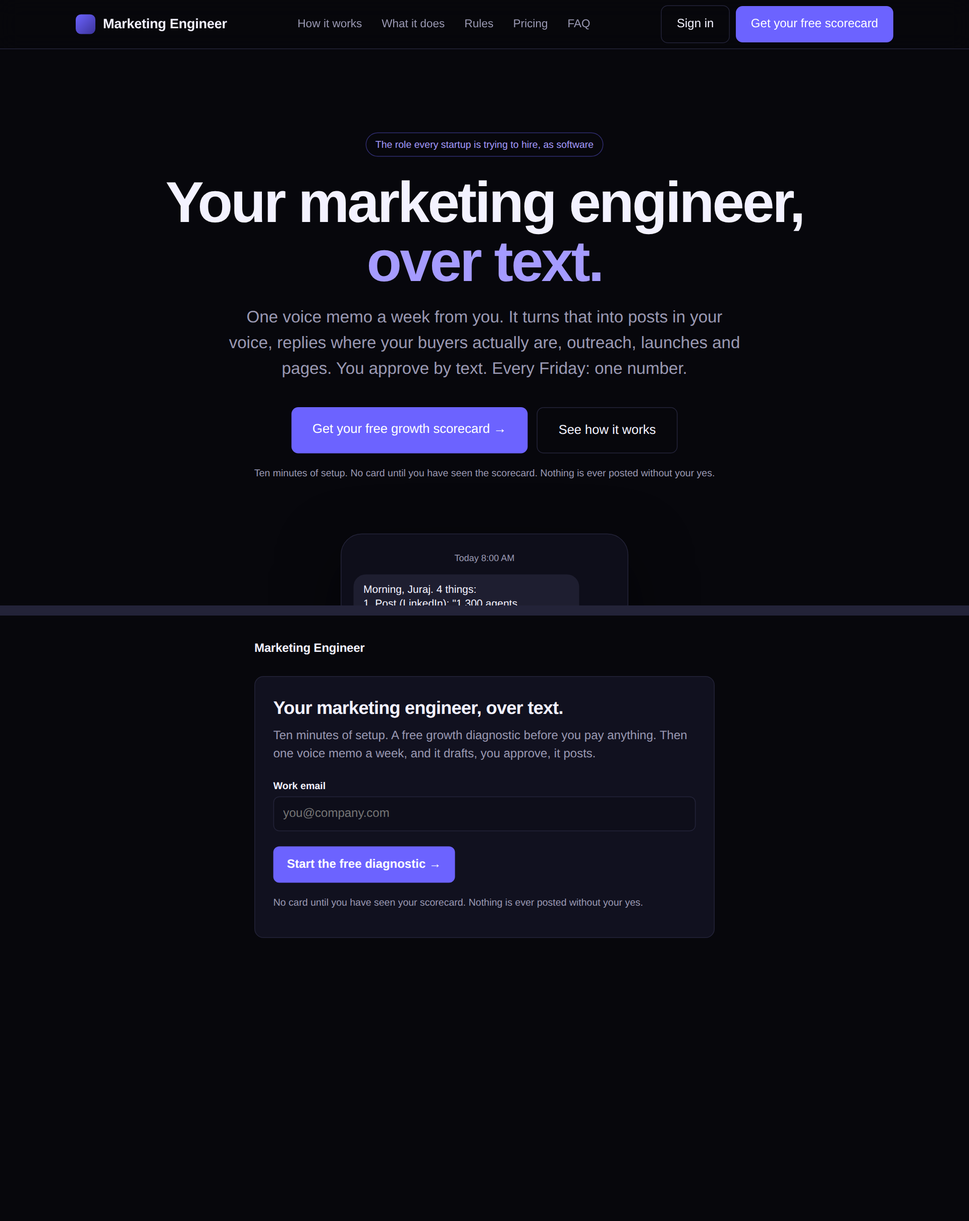
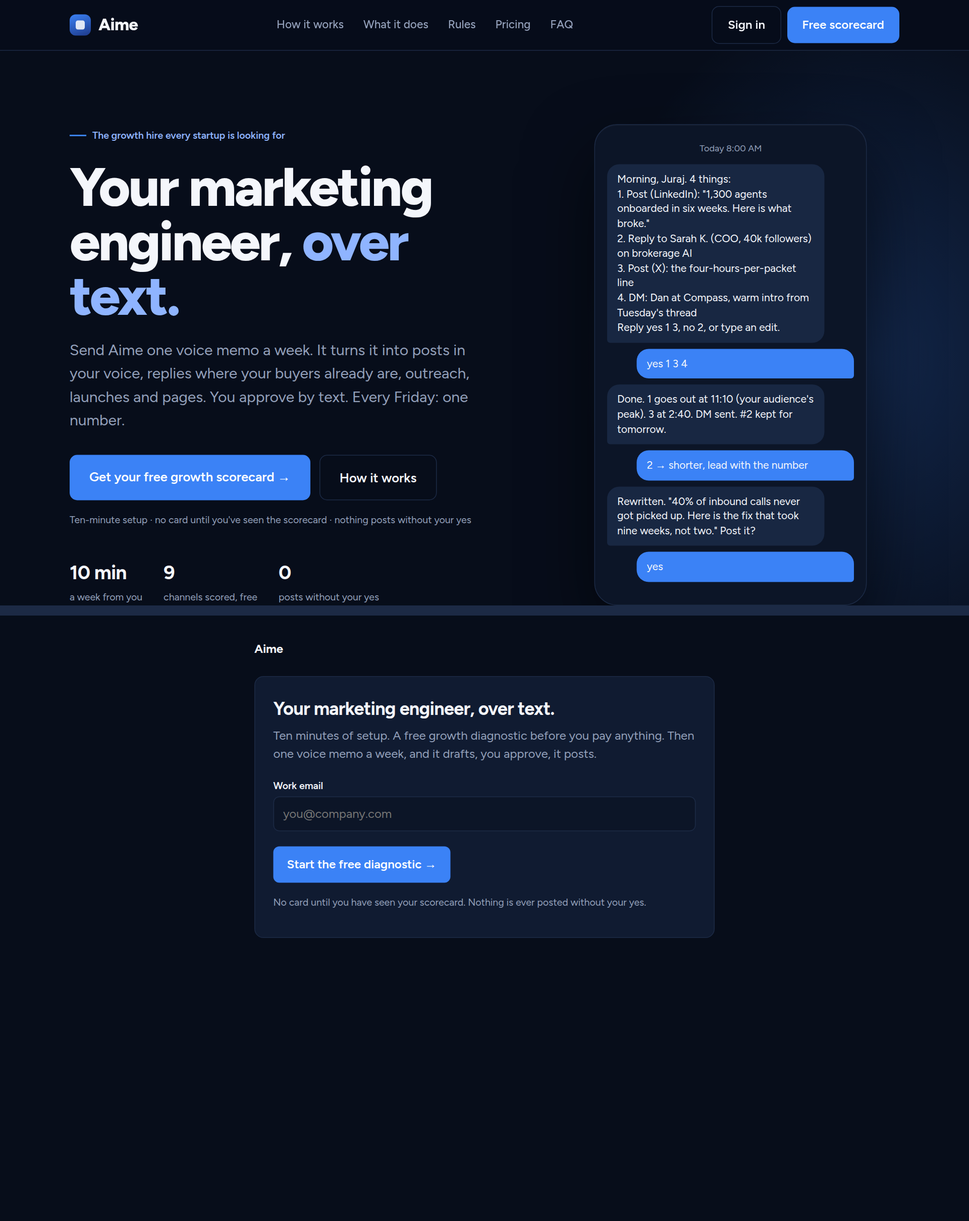
Brand: Aime, navy palette, Figtree via the coollabs fonts mirror; two-column hero
Claude-Session: https://claude.ai/code/session_015jMNLhoctozzBeGFpfg5EC

diff --git a/api/app/onboarding/site.py b/api/app/onboarding/site.py
@@ -1,72 +1,103 @@
-"""The public marketing site, served at / (Component 14b). One page, no build step, dark.
-Every button leads to /start. The copy is the tweet, rewritten for the buyer."""
+"""The public marketing site, served at / (Component 14b). One page, no build step.
+Brand tokens (name, font, palette) come from settings so they change without a deploy of code.
+The font is fetched from api.fonts.coollabs.io, a privacy-friendly Google Fonts mirror."""
+from html import escape as e
+from urllib.parse import quote
+
 from ..interfaces.billing_oauth import PLANS
+from ..settings import settings
+
+# Navy palette: deep navy ground, electric-blue accent, warm off-white type.
+BRAND_CSS = """
+:root{--font:%(font)s,-apple-system,"Segoe UI",sans-serif;--bg:#070d1a;--bg2:#0c1527;--card:#101b31;--line:#1c2a45;
+--ink:#f4f6fb;--mute:#93a0ba;--acc:#3b82f6;--acc2:#8fb4ff;--navy:#1e3a8a;--ok:#34d399;--warn:#fbbf24}
+""" % {"font": '"%s"' % settings.site_font}
+
+
+def font_link() -> str:
+    fam = quote(settings.site_font) + ":wght@" + settings.site_font_weights
+    return (f'<link rel="preconnect" href="{settings.font_css_base.split("/css2")[0]}">'
+            f'<link rel="stylesheet" href="{settings.font_css_base}?family={fam}&display=swap">')
+
 
 CSS = """
-:root{--bg:#07070c;--bg2:#0e0e1a;--ink:#f3f2ff;--mute:#9a99b3;--line:#232338;--acc:#6c63ff;--acc2:#a59bff;--ok:#34d399;--card:#11111f}
-*{box-sizing:border-box}html{scroll-behavior:smooth}body{margin:0;background:var(--bg);color:var(--ink);font:16px/1.55 Inter,-apple-system,Segoe UI,sans-serif;-webkit-font-smoothing:antialiased}
+*{box-sizing:border-box}html{scroll-behavior:smooth}body{margin:0;background:var(--bg);color:var(--ink);font:16px/1.55 var(--font);-webkit-font-smoothing:antialiased}
 a{color:inherit;text-decoration:none}
-.wrap{max-width:1120px;margin:0 auto;padding:0 20px}
-nav{position:sticky;top:0;z-index:5;backdrop-filter:blur(14px);background:rgba(7,7,12,.7);border-bottom:1px solid var(--line)}
-nav .wrap{display:flex;align-items:center;justify-content:space-between;height:64px}
-.logo{display:flex;align-items:center;gap:10px;font-weight:700;font-size:18px;letter-spacing:-.01em}
-.logo i{width:26px;height:26px;border-radius:7px;background:linear-gradient(135deg,var(--acc),#3b3399);display:inline-block}
-nav .links{display:flex;gap:26px;color:var(--mute);font-size:15px}nav .links a:hover{color:var(--ink)}
-@media(max-width:760px){nav .links{display:none}}
-.btn{display:inline-block;background:var(--acc);color:#fff;padding:12px 20px;border-radius:9px;font-weight:600;border:0;font:inherit;cursor:pointer}
-.btn:hover{background:#7d75ff}.btn.ghost{background:transparent;border:1px solid var(--line);color:var(--ink)}.btn.big{padding:16px 28px;font-size:17px}
-.hero{padding:110px 0 70px;text-align:center;position:relative;overflow:hidden}
-.hero:before{content:"";position:absolute;inset:auto 0 0 0;height:520px;background:radial-gradient(60% 70% at 50% 100%,rgba(108,99,255,.35),transparent 70%);pointer-events:none}
-.hero .wrap{position:relative}
-.eyebrow{display:inline-block;font-size:13px;color:var(--acc2);border:1px solid rgba(108,99,255,.4);border-radius:999px;padding:5px 12px;margin-bottom:22px}
-h1{font-size:clamp(40px,7vw,76px);line-height:1.02;letter-spacing:-.035em;margin:0 0 18px;font-weight:700}
+.wrap{max-width:1140px;margin:0 auto;padding:0 22px}
+nav{position:sticky;top:0;z-index:5;backdrop-filter:blur(14px);background:rgba(7,13,26,.72);border-bottom:1px solid var(--line)}
+nav .wrap{display:flex;align-items:center;justify-content:space-between;height:66px}
+.logo{display:flex;align-items:center;gap:10px;font-weight:800;font-size:22px;letter-spacing:-.02em}
+.logo i{width:28px;height:28px;border-radius:8px;background:linear-gradient(160deg,var(--acc),var(--navy));display:inline-block;position:relative}
+.logo i:after{content:"";position:absolute;left:8px;top:8px;width:12px;height:12px;border-radius:3px;background:var(--ink);opacity:.9}
+nav .links{display:flex;gap:26px;color:var(--mute);font-size:15px;font-weight:500}nav .links a:hover{color:var(--ink)}
+@media(max-width:820px){nav .links{display:none}}
+.btn{display:inline-block;background:var(--acc);color:#fff;padding:12px 20px;border-radius:10px;font-weight:600;border:0;font:inherit;font-weight:600;cursor:pointer}
+.btn:hover{background:#4f8ff8}.btn.ghost{background:transparent;border:1px solid var(--line);color:var(--ink)}.btn.big{padding:16px 26px;font-size:17px}
+.hero{padding:96px 0 80px;position:relative;overflow:hidden}
+.hero:before{content:"";position:absolute;right:-20%;top:-10%;width:60%;height:120%;background:radial-gradient(closest-side,rgba(59,130,246,.22),transparent);pointer-events:none}
+.hero .wrap{position:relative;display:grid;grid-template-columns:1.15fr .85fr;gap:48px;align-items:center}
+@media(max-width:900px){.hero .wrap{grid-template-columns:1fr}.hero{padding:64px 0}}
+.eyebrow{display:inline-flex;align-items:center;gap:8px;font-size:13px;font-weight:600;color:var(--acc2);margin-bottom:22px}
+.eyebrow:before{content:"";width:22px;height:2px;background:var(--acc)}
+h1{font-size:clamp(42px,6.2vw,72px);line-height:1;letter-spacing:-.035em;margin:0 0 20px;font-weight:800}
 h1 em{font-style:normal;color:var(--acc2)}
-.sub{font-size:clamp(17px,2.2vw,22px);color:var(--mute);max-width:680px;margin:0 auto 34px}
-.hero .cta{display:flex;gap:12px;justify-content:center;flex-wrap:wrap}.hero .fine{color:var(--mute);font-size:13px;margin-top:16px}
-.phone{margin:70px auto 0;width:min(380px,92%);background:var(--bg2);border:1px solid var(--line);border-radius:28px;padding:22px 16px;text-align:left;box-shadow:0 30px 80px rgba(0,0,0,.5)}
+.sub{font-size:clamp(17px,2vw,20px);color:var(--mute);max-width:560px;margin:0 0 30px}
+.cta{display:flex;gap:12px;flex-wrap:wrap}.fine{color:var(--mute);font-size:13px;margin-top:16px}
+.proof{display:flex;gap:28px;margin-top:38px;flex-wrap:wrap}.proof div b{display:block;font-size:26px;letter-spacing:-.02em}.proof div span{color:var(--mute);font-size:13px}
+.phone{width:min(360px,100%);margin:0 auto;background:var(--bg2);border:1px solid var(--line);border-radius:30px;padding:22px 16px;box-shadow:0 40px 90px rgba(0,0,0,.55),inset 0 1px 0 rgba(255,255,255,.04)}
 .phone .t{font-size:12px;color:var(--mute);text-align:center;margin-bottom:12px}
-.msg{max-width:86%;padding:10px 13px;border-radius:16px;margin:8px 0;font-size:14px;line-height:1.4;white-space:pre-wrap}
-.msg.in{background:#1e1e30;border-bottom-left-radius:4px}.msg.out{background:var(--acc);margin-left:auto;border-bottom-right-radius:4px}
-section{padding:90px 0;border-top:1px solid var(--line)}
-h2{font-size:clamp(28px,4vw,42px);letter-spacing:-.03em;margin:0 0 10px;line-height:1.1}
+.msg{max-width:88%;padding:10px 13px;border-radius:16px;margin:8px 0;font-size:14px;line-height:1.4;white-space:pre-wrap}
+.msg.in{background:#182742;border-bottom-left-radius:4px}.msg.out{background:var(--acc);margin-left:auto;border-bottom-right-radius:4px}
+section{padding:96px 0;border-top:1px solid var(--line)}
+h2{font-size:clamp(28px,4vw,44px);letter-spacing:-.03em;margin:0 0 10px;line-height:1.08;font-weight:800}
 .lead{color:var(--mute);font-size:18px;max-width:640px;margin:0 0 40px}
 .grid{display:grid;gap:16px}.g3{grid-template-columns:repeat(3,1fr)}.g2{grid-template-columns:repeat(2,1fr)}
 @media(max-width:820px){.g3,.g2{grid-template-columns:1fr}}
-.card{background:var(--card);border:1px solid var(--line);border-radius:14px;padding:24px}
-.card h3{margin:0 0 6px;font-size:18px}.card p{margin:0;color:var(--mute);font-size:15px}
-.num{font-size:13px;color:var(--acc2);font-weight:600;margin-bottom:12px}
-.formula .card{display:flex;gap:16px;align-items:flex-start}.formula .k{flex:0 0 46px;height:46px;border-radius:10px;background:rgba(108,99,255,.15);color:var(--acc2);display:grid;place-items:center;font-weight:700}
+.card{background:var(--card);border:1px solid var(--line);border-radius:16px;padding:26px}
+.card h3{margin:0 0 6px;font-size:18px;font-weight:700}.card p{margin:0;color:var(--mute);font-size:15px}
+.num{font-size:13px;color:var(--acc2);font-weight:700;margin-bottom:12px;letter-spacing:.02em}
+.formula .card{display:flex;gap:16px;align-items:flex-start}.formula .k{flex:0 0 46px;height:46px;border-radius:12px;background:rgba(59,130,246,.14);color:var(--acc2);display:grid;place-items:center;font-weight:800}
 .rules{background:var(--bg2)}.rule{display:flex;gap:14px;padding:18px 0;border-bottom:1px solid var(--line)}.rule b{display:block}.rule span{color:var(--mute);font-size:15px}
 .rule i{flex:0 0 22px;height:22px;border-radius:50%;background:rgba(52,211,153,.15);color:var(--ok);display:grid;place-items:center;font-style:normal;font-size:13px;margin-top:3px}
 .plans{display:grid;grid-template-columns:repeat(3,1fr);gap:16px}@media(max-width:820px){.plans{grid-template-columns:1fr}}
-.plan{background:var(--card);border:1px solid var(--line);border-radius:16px;padding:28px}.plan.pick{border-color:var(--acc);box-shadow:0 0 0 1px var(--acc),0 20px 60px rgba(108,99,255,.15)}
-.plan .p{font-size:40px;font-weight:700;letter-spacing:-.03em}.plan .p small{font-size:15px;color:var(--mute);font-weight:400}
+.plan{background:var(--card);border:1px solid var(--line);border-radius:18px;padding:28px}.plan.pick{border-color:var(--acc);box-shadow:0 0 0 1px var(--acc),0 24px 60px rgba(59,130,246,.15)}
+.plan .p{font-size:40px;font-weight:800;letter-spacing:-.03em}.plan .p small{font-size:15px;color:var(--mute);font-weight:400}
 .plan ul{padding:0;list-style:none;margin:18px 0 22px}.plan li{padding:6px 0;color:var(--mute);font-size:15px}.plan li:before{content:"✓ ";color:var(--ok)}
 .faq details{border-bottom:1px solid var(--line);padding:16px 0}.faq summary{cursor:pointer;font-weight:600;font-size:17px}.faq p{color:var(--mute);margin:10px 0 0}
-.final{text-align:center;padding:110px 0}
+.final{text-align:center;padding:110px 0;background:linear-gradient(180deg,var(--bg),var(--bg2))}.final .lead{margin:10px auto 30px}
 footer{border-top:1px solid var(--line);padding:30px 0;color:var(--mute);font-size:13px;display:flex;justify-content:space-between;flex-wrap:wrap;gap:10px}
 """
 
+_FEATURES = {
+    "founder": ["One founder, LinkedIn + X", "Weekly memo → drafts in your voice", "Morning brief, approve by text", "Attention map + daily replies", "Friday number"],
+    "team": ["Up to three founders", "Everything in Founder", "Launch kits and pages", "Outreach and joint posts", "Site fixes and small tools"],
+    "growth": ["Everything in Team", "Human review of every weekly plan", "Quarterly growth review", "Priority support", "Custom integrations"],
+}
+
 
 def page() -> str:
+    n = e(settings.site_name)
     plans = "".join(f"""<div class="plan {'pick' if k == 'team' else ''}"><div class="num">{v['name']}</div>
 <div class="p">${v['monthly_usd']:,}<small> /month</small></div>
 <ul>{''.join(f'<li>{x}</li>' for x in _FEATURES[k])}</ul>
 <a class="btn" href="/start">Start with the free diagnostic</a></div>""" for k, v in PLANS.items())
     return f"""<!doctype html><html lang="en"><head><meta charset="utf-8"><meta name="viewport" content="width=device-width,initial-scale=1">
-<title>Marketing Engineer — the growth hire every startup is trying to make, over text</title>
-<meta name="description" content="A marketing engineer that runs on one voice memo a week. Drafts in your voice, you approve by text, it posts, replies, does outreach and reports one number every Friday.">
-<style>{CSS}</style></head><body>
-<nav><div class="wrap"><a class="logo" href="/"><i></i>Marketing Engineer</a>
+<title>{n} — your marketing engineer, over text</title>
+<meta name="description" content="{n} is a marketing engineer that runs on one voice memo a week. Drafts in your voice, you approve by text, it posts, replies, does outreach and reports one number every Friday.">
+{font_link()}<style>{BRAND_CSS}{CSS}</style></head><body>
+<nav><div class="wrap"><a class="logo" href="/"><i></i>{n}</a>
 <div class="links"><a href="#how">How it works</a><a href="#formula">What it does</a><a href="#rules">Rules</a><a href="#pricing">Pricing</a><a href="#faq">FAQ</a></div>
-<div><a class="btn ghost" href="/start" style="margin-right:8px">Sign in</a><a class="btn" href="/start">Get your free scorecard</a></div></div></nav>
+<div><a class="btn ghost" href="/start" style="margin-right:8px">Sign in</a><a class="btn" href="/start">Free scorecard</a></div></div></nav>
 
 <header class="hero"><div class="wrap">
-<div class="eyebrow">The role every startup is trying to hire, as software</div>
-<h1>Your marketing engineer,<br><em>over text.</em></h1>
-<p class="sub">One voice memo a week from you. It turns that into posts in your voice, replies where your buyers actually are, outreach, launches and pages. You approve by text. Every Friday: one number.</p>
-<div class="cta"><a class="btn big" href="/start">Get your free growth scorecard →</a><a class="btn ghost big" href="#how">See how it works</a></div>
-<div class="fine">Ten minutes of setup. No card until you have seen the scorecard. Nothing is ever posted without your yes.</div>
+<div>
+<div class="eyebrow">The growth hire every startup is looking for</div>
+<h1>Your marketing engineer, <em>over text.</em></h1>
+<p class="sub">Send {n} one voice memo a week. It turns it into posts in your voice, replies where your buyers already are, outreach, launches and pages. You approve by text. Every Friday: one number.</p>
+<div class="cta"><a class="btn big" href="/start">Get your free growth scorecard →</a><a class="btn ghost big" href="#how">How it works</a></div>
+<div class="fine">Ten-minute setup · no card until you've seen the scorecard · nothing posts without your yes</div>
+<div class="proof"><div><b>10 min</b><span>a week from you</span></div><div><b>9</b><span>channels scored, free</span></div><div><b>0</b><span>posts without your yes</span></div></div>
+</div>
 <div class="phone"><div class="t">Today 8:00 AM</div>
 <div class="msg in">Morning, Juraj. 4 things:
 1. Post (LinkedIn): "1,300 agents onboarded in six weeks. Here is what broke."
@@ -76,19 +107,19 @@ def page() -> str:
 Reply yes 1 3, no 2, or type an edit.</div>
 <div class="msg out">yes 1 3 4</div>
 <div class="msg in">Done. 1 goes out at 11:10 (your audience's peak). 3 at 2:40. DM sent. #2 kept for tomorrow.</div>
-<div class="msg out">2 → make it shorter, lead with the number</div>
+<div class="msg out">2 → shorter, lead with the number</div>
 <div class="msg in">Rewritten. "40% of inbound calls never got picked up. Here is the fix that took nine weeks, not two." Post it?</div>
 <div class="msg out">yes</div></div>
 </div></header>
 
 <section id="how"><div class="wrap"><h2>How it works</h2><p class="lead">You already know what happened this week. Saying it out loud is the whole job.</p>
 <div class="grid g3">
-<div class="card"><div class="num">01 · Once</div><h3>Ten-minute setup</h3><p>Company, three best customers, connect LinkedIn and X, your phone. You get a free growth scorecard: nine channels scored, the biggest gap named, your first two weeks planned.</p></div>
-<div class="card"><div class="num">02 · Weekly</div><h3>One voice memo</h3><p>Ten minutes, whenever. What shipped, what a customer said, what you got wrong, what you believe. It pulls the claims and drafts the week in your voice, not "AI voice".</p></div>
-<div class="card"><div class="num">03 · Daily</div><h3>Approve by text</h3><p>A numbered brief every morning. yes 1 3, no 2, or type an edit. It schedules, posts, replies, follows up. Friday it texts you the one number that matters and what changed it.</p></div>
+<div class="card"><div class="num">01 · ONCE</div><h3>Ten-minute setup</h3><p>Company, three best customers, connect LinkedIn and X, your phone. You get a free growth scorecard: nine channels scored, the biggest gap named, your first two weeks planned.</p></div>
+<div class="card"><div class="num">02 · WEEKLY</div><h3>One voice memo</h3><p>Ten minutes, whenever. What shipped, what a customer said, what you got wrong, what you believe. {n} pulls the claims and drafts the week in your voice, not "AI voice".</p></div>
+<div class="card"><div class="num">03 · DAILY</div><h3>Approve by text</h3><p>A numbered brief every morning. yes 1 3, no 2, or type an edit. It schedules, posts, replies, follows up. Friday it texts you the one number that matters and what changed it.</p></div>
 </div></div></section>
 
-<section id="formula"><div class="wrap"><h2>What a marketing engineer does. All of it.</h2><p class="lead">This is the job description that is going around. Each line is a working part of the product, not a slide.</p>
+<section id="formula"><div class="wrap"><h2>What a marketing engineer does. All of it.</h2><p class="lead">This is the job description going around every startup. Each line is a working part of {n}, not a slide.</p>
 <div class="grid g2 formula">
 <div class="card"><div class="k">01</div><div><h3>Judgment on what to build first</h3><p>Scores content, SEO, social, email, launches, community, partners, product-led and ads for <i>your</i> company, sequences the fixes, and re-plans every Monday from last week's numbers.</p></div></div>
 <div class="card"><div class="k">02</div><div><h3>Founder voice, not brand voice</h3><p>Learns how you actually write from your own posts. Every draft is checked against it; anything that reads like a bot is rejected before you ever see it.</p></div></div>
@@ -100,7 +131,7 @@ Reply yes 1 3, no 2, or type an edit.</div>
 <div class="card"><div class="k">08</div><div><h3>Builds small tools</h3><p>Calculators, checkers, graders your buyers will use and share. Proposed by text, built when you say build 2.</p></div></div>
 </div></div></section>
 
-<section id="rules" class="rules"><div class="wrap"><h2>The rules it cannot break</h2><p class="lead">Written into the database, not the terms of service.</p>
+<section id="rules" class="rules"><div class="wrap"><h2>The rules {n} cannot break</h2><p class="lead">Written into the database, not the terms of service.</p>
 <div class="rule"><i>✓</i><div><b>Nothing posts without your yes.</b><span>A bare "yes" never approves a batch by guess. Every executed post records exactly which reply approved it.</span></div></div>
 <div class="rule"><i>✓</i><div><b>Your voice or nothing.</b><span>Drafts that fail the voice check are never shown to you, let alone posted.</span></div></div>
 <div class="rule"><i>✓</i><div><b>Founder accounts, founder attention.</b><span>No paid ads, no press releases, no company-page filler. Only the things that work for early-stage companies.</span></div></div>
@@ -113,19 +144,12 @@ Reply yes 1 3, no 2, or type an edit.</div>
 
 <section id="faq" class="faq"><div class="wrap"><h2>Questions</h2>
 <details><summary>Does it post as me?</summary><p>Yes, from your own LinkedIn and X accounts, after you approve each post by text. You can disconnect from the account page at any time.</p></details>
-<details><summary>What does the weekly memo need to contain?</summary><p>Whatever happened. What you shipped, a customer's words, a number you measured, a mistake, a belief. Ten minutes is plenty; it extracts the claims and builds the drafts from those.</p></details>
+<details><summary>What does the weekly memo need to contain?</summary><p>Whatever happened. What you shipped, a customer's words, a number you measured, a mistake, a belief. Ten minutes is plenty; {n} extracts the claims and builds the drafts from those.</p></details>
 <details><summary>Are LinkedIn and X posts different?</summary><p>Yes. Same claim, different shape: a story on LinkedIn, a single sharp line on X. Both in your voice.</p></details>
 <details><summary>Do I have to be on the schedule?</summary><p>No. Pick "we manage the schedule" and it posts at your audience's active hours once you've approved the words. Or approve the time too.</p></details>
 <details><summary>What if I don't answer for a week?</summary><p>Nothing goes out. It waits. The brief keeps coming until you text pause.</p></details>
 </div></section>
 
-<section class="final"><div class="wrap"><h2>See your growth score in ten minutes.</h2><p class="lead" style="margin:10px auto 30px">Free, before any card. Then decide.</p><a class="btn big" href="/start">Get your free scorecard →</a></div></section>
-<footer class="wrap"><span>© Marketing Engineer</span><span><a href="/start">Sign in</a> · <a href="#pricing">Pricing</a> · <a href="mailto:hello@example.com">Contact</a></span></footer>
+<section class="final"><div class="wrap"><h2>See your growth score in ten minutes.</h2><p class="lead">Free, before any card. Then decide.</p><a class="btn big" href="/start">Get your free scorecard →</a></div></section>
+<footer class="wrap"><span>© {n}</span><span><a href="/start">Sign in</a> · <a href="#pricing">Pricing</a> · <a href="mailto:hello@example.com">Contact</a></span></footer>
 </body></html>"""
-
-
-_FEATURES = {
-    "founder": ["One founder, LinkedIn + X", "Weekly memo → drafts in your voice", "Morning brief, approve by text", "Attention map + daily replies", "Friday number"],
-    "team": ["Up to three founders", "Everything in Founder", "Launch kits and pages", "Outreach and joint posts", "Site fixes and small tools"],
-    "growth": ["Everything in Team", "Human review of every weekly plan", "Quarterly growth review", "Priority support", "Custom integrations"],
-}

diff --git a/api/app/onboarding/pages.py b/api/app/onboarding/pages.py
@@ -3,10 +3,12 @@ no framework: the wizard has to load on a phone in a coffee shop and be done in 
 from html import escape as e
 
 from ..interfaces.billing_oauth import PLANS
+from ..settings import settings
+from .site import BRAND_CSS, font_link
 
 CSS = """
-:root{--ink:#f3f2ff;--mute:#9a99b3;--line:#232338;--bg:#07070c;--card:#11111f;--acc:#6c63ff;--ok:#34d399;--warn:#fbbf24}
-*{box-sizing:border-box}body{margin:0;background:var(--bg);color:var(--ink);font:16px/1.5 -apple-system,Inter,Segoe UI,sans-serif}
+
+*{box-sizing:border-box}body{margin:0;background:var(--bg);color:var(--ink);font:16px/1.5 var(--font)}
 .wrap{max-width:640px;margin:0 auto;padding:32px 16px 64px}
 .brand{font-weight:700;letter-spacing:-.01em;margin-bottom:24px;display:flex;justify-content:space-between;align-items:center}
 .brand small{color:var(--mute);font-weight:400}
@@ -14,13 +16,13 @@ CSS = """
 .card{background:var(--card);border:1px solid var(--line);border-radius:12px;padding:24px}
 h1{font-size:24px;margin:0 0 6px;letter-spacing:-.02em}h2{font-size:17px;margin:20px 0 8px}p.sub{color:var(--mute);margin:0 0 20px}
 label{display:block;font-size:13px;font-weight:600;margin:14px 0 4px}
-input,textarea,select{width:100%;padding:10px 12px;border:1px solid var(--line);border-radius:8px;font:inherit;background:#0e0e1a;color:var(--ink)}
+input,textarea,select{width:100%;padding:10px 12px;border:1px solid var(--line);border-radius:8px;font:inherit;background:var(--bg2);color:var(--ink)}
 textarea{min-height:72px}
 .row{display:grid;grid-template-columns:1fr 1fr;gap:12px}@media(max-width:520px){.row{grid-template-columns:1fr}}
 button,.btn{display:inline-block;margin-top:20px;background:var(--acc);color:#fff;border:0;border-radius:8px;padding:12px 18px;font:inherit;font-weight:600;cursor:pointer;text-decoration:none}
 .btn.ghost{background:transparent;color:var(--ink);border:1px solid var(--line)}
 .cust{border:1px dashed var(--line);border-radius:8px;padding:12px;margin-top:12px}
-.tag{display:inline-block;font-size:12px;padding:2px 8px;border-radius:999px;background:rgba(108,99,255,.18);color:#a59bff;margin-left:8px}
+.tag{display:inline-block;font-size:12px;padding:2px 8px;border-radius:999px;background:rgba(59,130,246,.18);color:var(--acc2);margin-left:8px}
 .tag.ok{background:rgba(52,211,153,.15);color:var(--ok)}
 .score{display:flex;align-items:baseline;gap:10px}.score b{font-size:48px;letter-spacing:-.03em}.score span{color:var(--mute)}
 .bars{margin:16px 0}.bar{display:grid;grid-template-columns:110px 1fr 36px;gap:10px;align-items:center;margin:6px 0;font-size:14px}
@@ -32,7 +34,7 @@ button,.btn{display:inline-block;margin-top:20px;background:var(--acc);color:#ff
 .opt div b{display:block}.opt div small{color:var(--mute)}
 ul.list{padding-left:18px;margin:6px 0}.note{font-size:13px;color:var(--mute);margin-top:16px}
 .done{text-align:center;padding:24px 0}.done .big{font-size:56px}
-code{background:#1e1e30;padding:2px 6px;border-radius:4px}
+code{background:var(--bg2);padding:2px 6px;border-radius:4px}
 """
 
 
@@ -41,8 +43,8 @@ def shell(title: str, body: str, step: int | None = None) -> str:
     if step:
         bar = '<div class="steps">' + "".join(f'<i class="{"done" if i < step else "on" if i == step else ""}"></i>' for i in range(1, 9)) + "</div>"
     return f"""<!doctype html><html lang="en"><head><meta charset="utf-8"><meta name="viewport" content="width=device-width,initial-scale=1">
-<title>{e(title)} · Marketing Engineer</title><style>{CSS}</style></head><body><div class="wrap">
-<div class="brand"><a href="/" style="color:inherit;text-decoration:none">Marketing Engineer</a> <small>{('step ' + str(step) + ' of 8') if step else ''}</small></div>{bar}
+<title>{e(title)} · {e(settings.site_name)}</title>{font_link()}<style>{BRAND_CSS}{CSS}</style></head><body><div class="wrap">
+<div class="brand"><a href="/" style="color:inherit;text-decoration:none">{e(settings.site_name)}</a> <small>{('step ' + str(step) + ' of 8') if step else ''}</small></div>{bar}
 <div class="card">{body}</div></div></body></html>"""
 
 

diff --git a/api/app/settings.py b/api/app/settings.py
@@ -26,6 +26,12 @@ class Settings(BaseSettings):
     twilio_from_number: str | None = None
     openai_api_key: str | None = None
     public_base_url: str = "http://localhost:8000"   # for setup links in texts
+    # brand (Component 14b). The font is loaded from the privacy-friendly Google Fonts mirror
+    # (api.fonts.coollabs.io) so no visitor data reaches Google. Any Google Fonts family works.
+    site_name: str = "Aime"
+    site_font: str = "Figtree"
+    site_font_weights: str = "400;500;600;700;800"
+    font_css_base: str = "https://api.fonts.coollabs.io/css2"
 
     # Onboarding + billing (Component 14)
     billing_provider: str = "fake"          # fake | stripe

diff --git a/api/app/main.py b/api/app/main.py
@@ -16,7 +16,7 @@ async def lifespan(_: FastAPI):
     yield
 
 
-app = FastAPI(title="Marketing Engineer API", version="0.0.1", lifespan=lifespan)
+app = FastAPI(title="Aime API", version="0.0.1", lifespan=lifespan)
 app.include_router(companies.router)
 app.include_router(jobs.router)
 app.include_router(metrics.router)

diff --git a/README.md b/README.md
@@ -235,6 +235,7 @@ GET  /setup-sessions                         admin: where every signup is stuck
 - Activation sends the first text (score, first action, the memo ask) and marks the session complete.
 - `founder.schedule_mode`: `managed` (engine picks slots) or `approve_times` (each draft carries its slot; reply with a time to move it).
 - Providers: `BILLING_PROVIDER=fake|stripe` (`STRIPE_SECRET_KEY`, `STRIPE_WEBHOOK_SECRET`, `STRIPE_PRICE_FOUNDER|TEAM|GROWTH`), `OAUTH_PROVIDER=fake|real` (`LINKEDIN_CLIENT_ID/SECRET`, `X_CLIENT_ID/SECRET`), `TOKEN_ENCRYPTION_KEY` (Fernet; the dev default must be replaced), `PUBLIC_BASE_URL`.
+- Brand: `SITE_NAME` (Aime), `SITE_FONT` (any Google Fonts family, default Figtree), `SITE_FONT_WEIGHTS`, `FONT_CSS_BASE` (default `https://api.fonts.coollabs.io/css2`, the privacy-friendly Google Fonts mirror; point it at your own instance of that service to self-host). Palette lives in `onboarding/site.py:BRAND_CSS`.
 - Plans: Founder $500, Team $1,500, Growth $5,000 per month (`interfaces/billing_oauth.py:PLANS`).
 
 ## Run it
